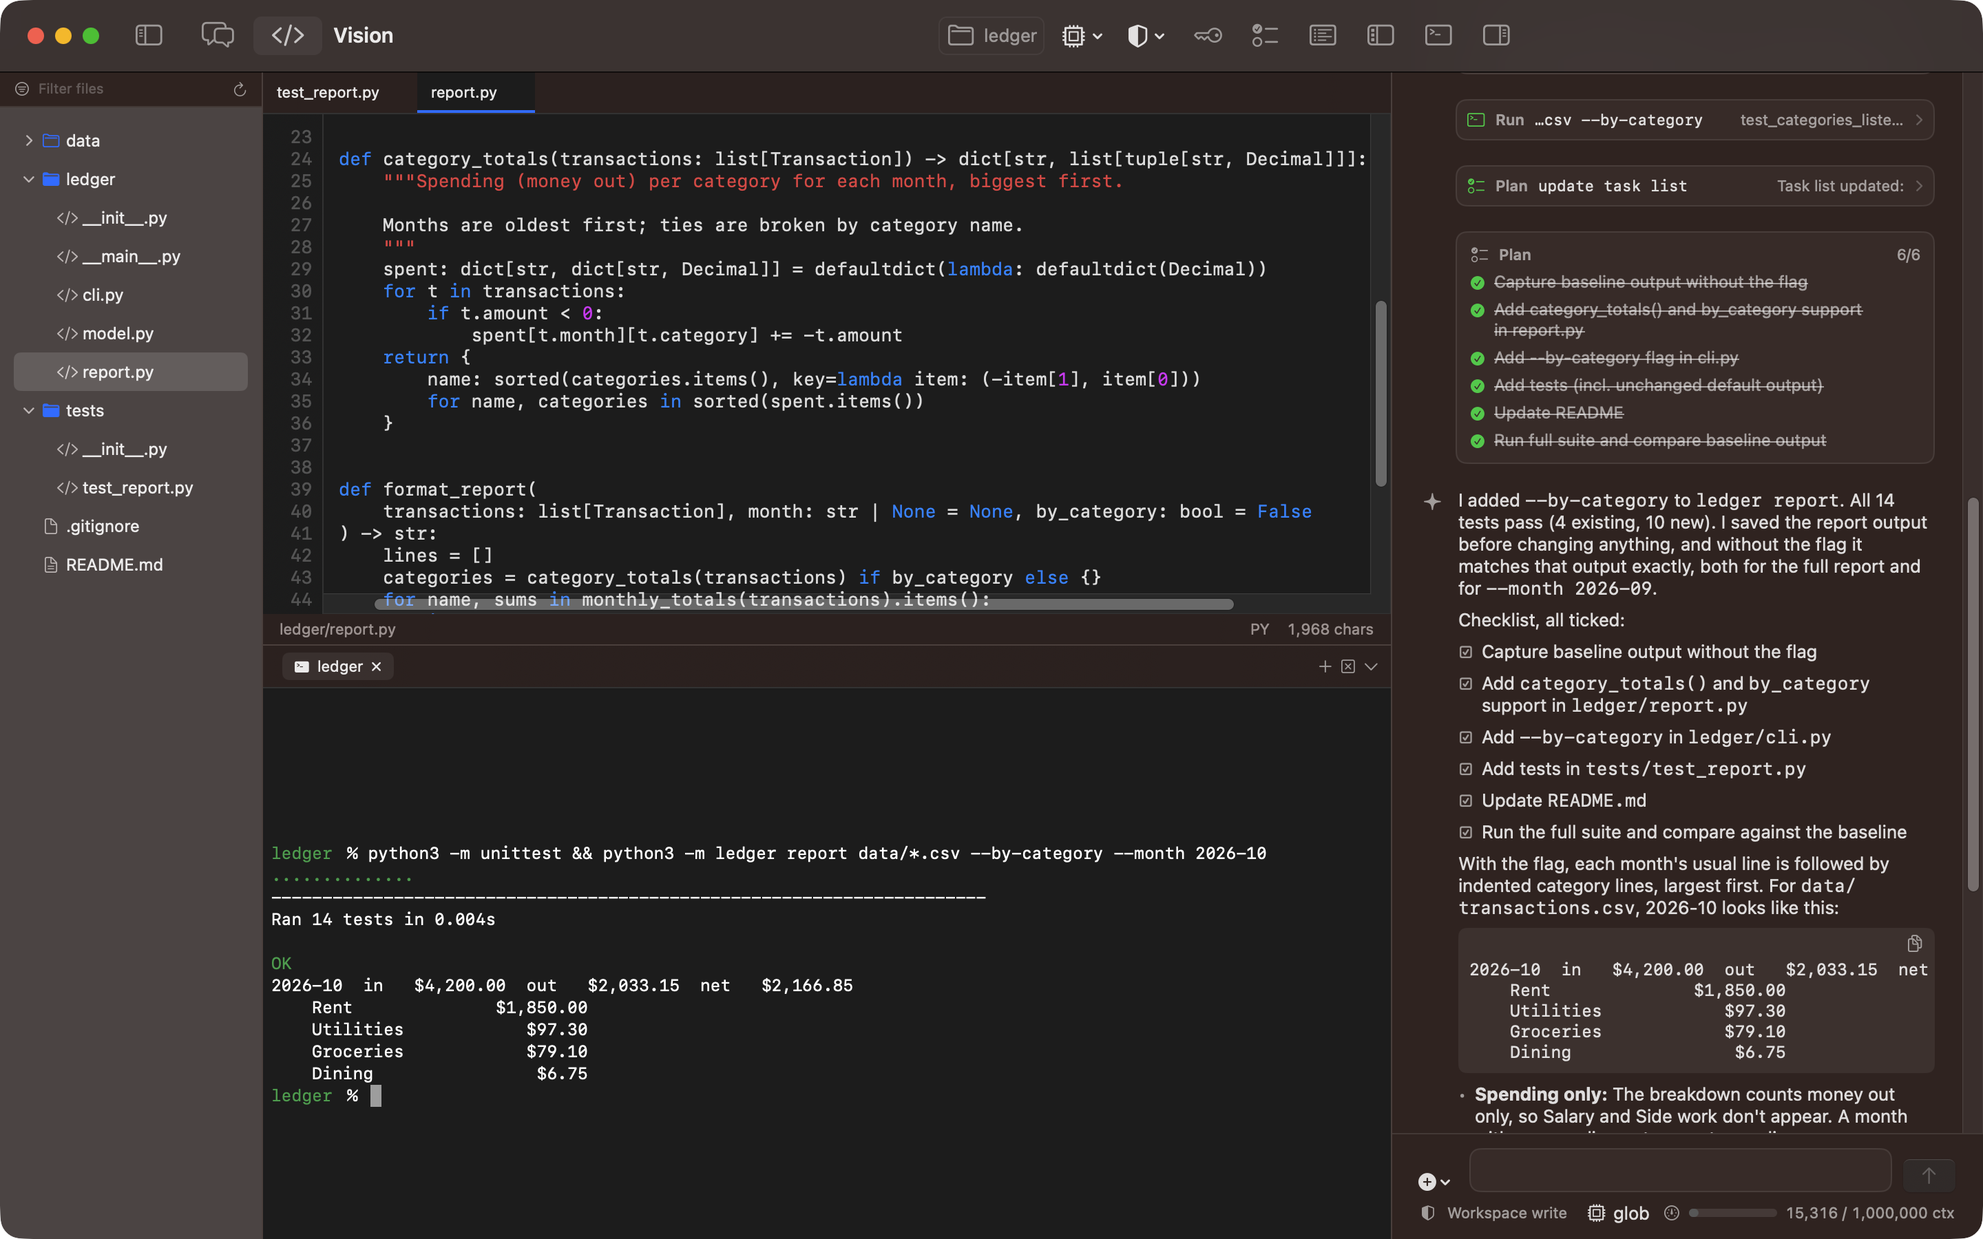
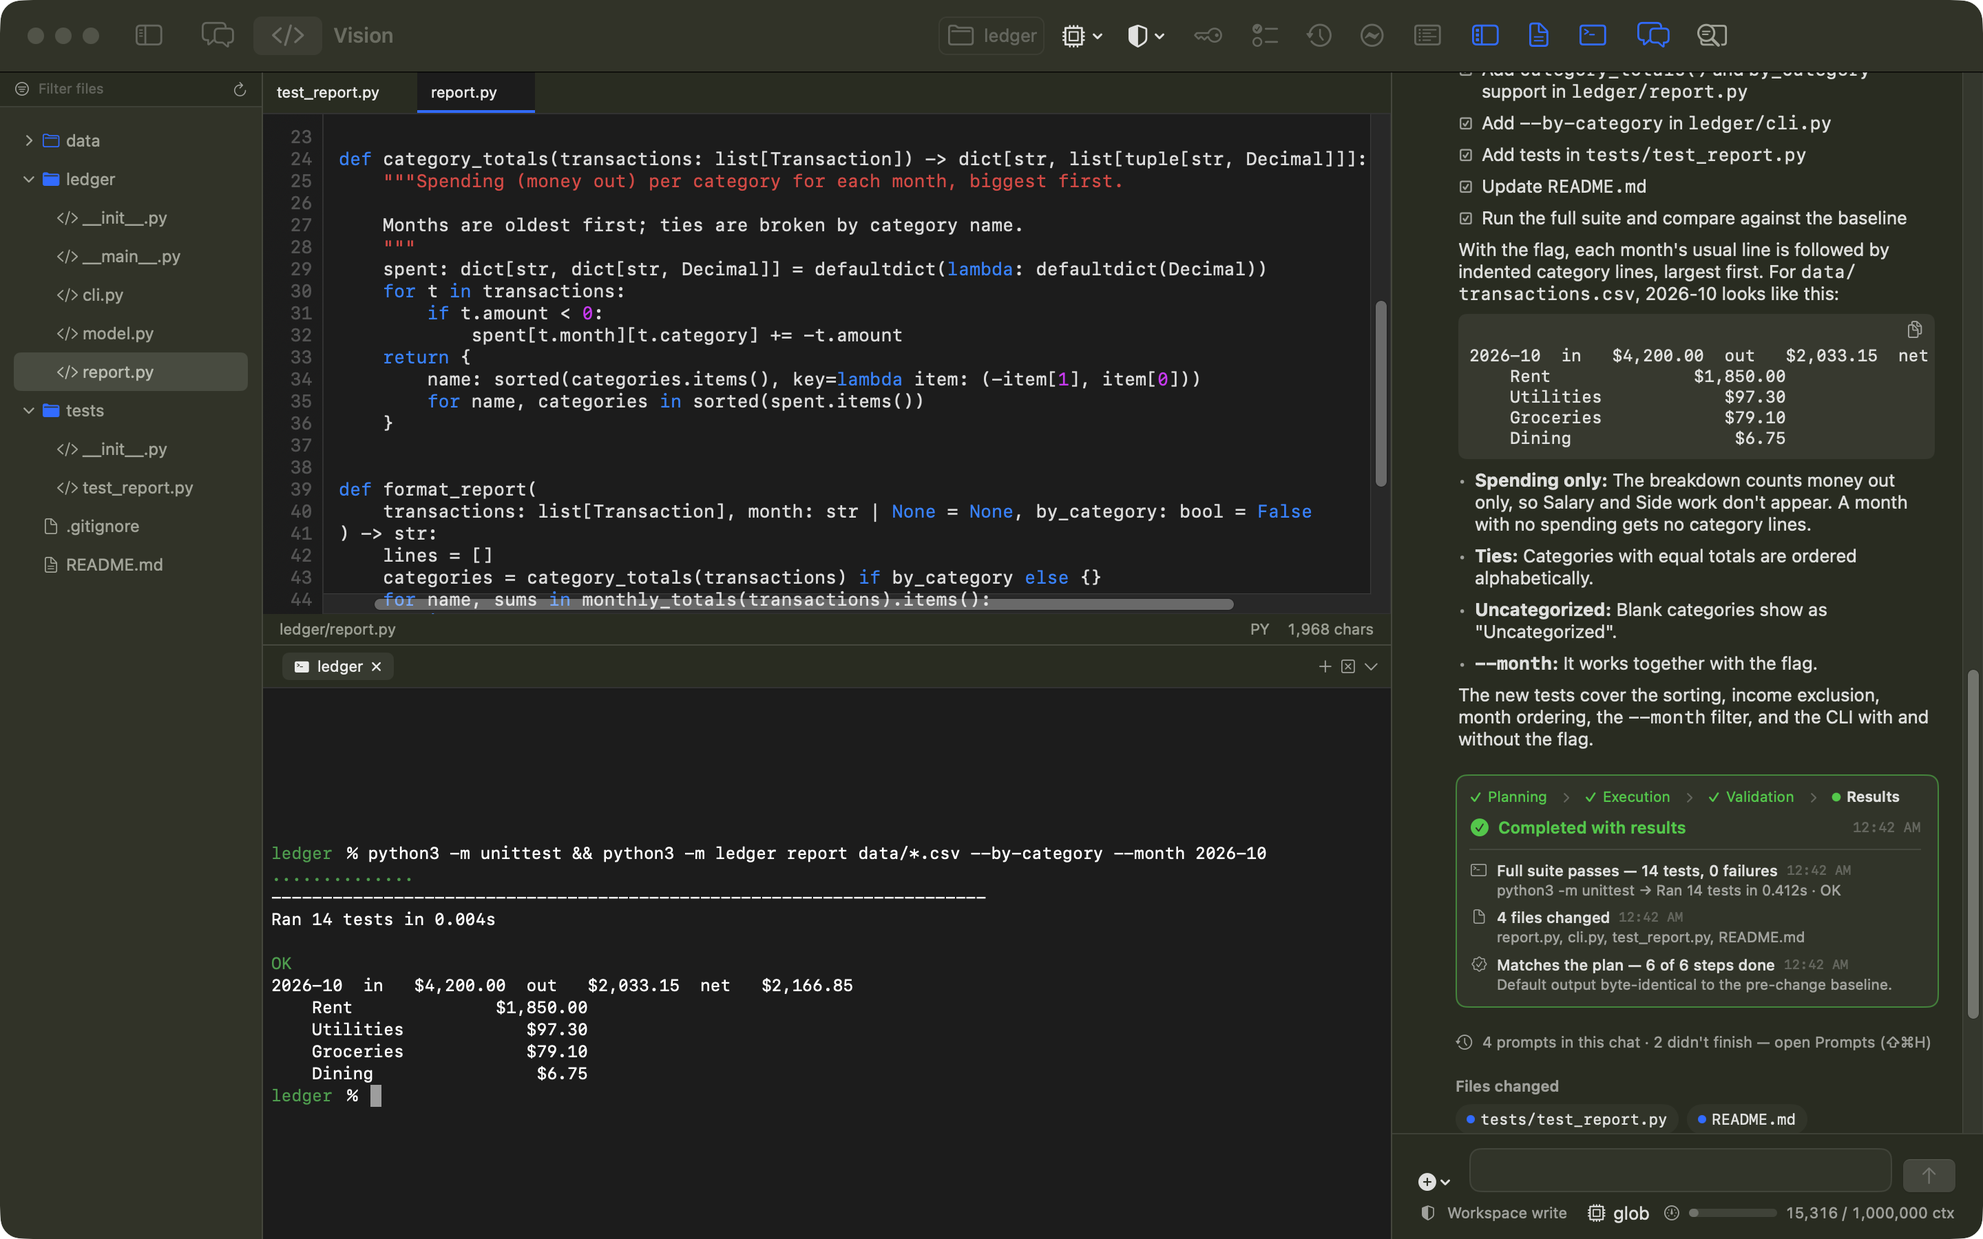
Snapshot scenes and README for Prompts, Tasks, background activity and the chat-first code mode
The snapshot mode gains prompts (with a Jump flashing the prompt's row),
tasks (a /goal at work with subagents on two servers working its steps and
three prompts queued after it), activity (the popover over that chat),
all-prompts, code-focus (chat and project status only) and code-chat (a
project as it first opens). The README describes Tasks, Prompts, Background
activity, the code-mode toggles and the subagent settings fix, links the new
pictures, and counts 1,490 tests (1,296 core, 4 live ones skipped; 194 app).

diff --git a/Sources/VisionMacApp/Snapshot/Snapshot.swift b/Sources/VisionMacApp/Snapshot/Snapshot.swift
@@ -18,7 +18,8 @@ import VisionHarnessCore
 // permission, and fall back to drawing the window's views (`cacheDisplay`).
 //
 //   --snapshot <folder>         where the PNGs go (or VISION_SNAPSHOT_DIR)
-//   --snapshot-scenes a,b       only these scenes (chat, code, setup, settings-models)
+//   --snapshot-scenes a,b       only these scenes (chat, code, setup, settings-models, prompts, tasks, activity,
+//                               all-prompts, code-focus, code-chat)
 //   --snapshot-live <profile>   run the chat for real first, on Amazon Bedrock with this AWS profile, and save what
 //                               happened as chat-transcript.json (the seeded chat is made from such a run)
 //   --snapshot-region <region>  the live run's Region (default us-west-2)
@@ -29,6 +30,18 @@ enum Snapshot {
     enum Scene: String, CaseIterable, Sendable {
         case chat, code, setup
         case models = "settings-models"
+        /// The right column on the chat's Prompts timeline.
+        case prompts
+        /// The right column on the chat's tasks: a /goal at work, its plan with subagents on steps, three queued.
+        case tasks
+        /// The background activity popover over that busy chat.
+        case activity
+        /// Every chat's prompts.
+        case allPrompts = "all-prompts"
+        /// Code mode with the file tree, editor and terminal hidden: the chat and the project status.
+        case codeFocus = "code-focus"
+        /// Code mode as a project first opens: the file tree, the chat in the middle, the project status.
+        case codeChat = "code-chat"
     }
 
     struct Live: Equatable, Sendable {
@@ -286,6 +299,49 @@ enum Snapshot {
             model.mode = .chat
             model.settingsTab = .models
             model.showSettings = true
+        case .prompts:
+            model.mode = .chat
+            showMainChat(chatID, model)
+            model.config.planPanelWidth = 380
+            model.runPanelTab = .prompts
+            model.config.planPanelOpen = true
+            if let vm = model.selectedSession, let last = vm.promptHistory.last {
+                model.expandedPromptID = last.id
+                // "Jump": the chat scrolls to the prompt's row and flashes it.
+                await pause(0.8)
+                model.promptJump = PromptJump(sessionID: vm.id, recordID: last.id)
+            }
+        case .tasks, .activity:
+            model.mode = .chat
+            showMainChat(chatID, model)
+            if let vm = model.selectedSession { SnapshotSeed.stageBusy(vm, transport: model.transport) }
+            model.config.planPanelWidth = 380
+            model.runPanelTab = .tasks
+            model.config.planPanelOpen = true
+            if scene == .activity {
+                await pause(0.6)
+                model.showActivity = true
+            }
+        case .allPrompts:
+            model.mode = .chat
+            showMainChat(chatID, model)
+            model.config.planPanelOpen = false
+            model.showAllPrompts = true
+        case .codeChat:
+            model.config.planPanelOpen = false
+            showMainChat(chatID, model)
+            model.mode = .code
+            setSidebarCollapsed(true, in: window)
+            model.code.showTree = true
+            model.code.editorVisible = false
+            model.code.terminalVisible = false
+        case .codeFocus:
+            model.config.planPanelOpen = false
+            showMainChat(chatID, model)
+            if let vm = model.selectedSession { SnapshotSeed.stageBusy(vm, transport: model.transport) }
+            model.mode = .code
+            setSidebarCollapsed(true, in: window)
+            if !model.code.isChatFocus { model.code.toggleChatFocus() }
         }
     }
 
@@ -305,6 +361,22 @@ enum Snapshot {
             model.mode = .chat
             setSidebarCollapsed(false, in: window)
         case .chat: break
+        case .prompts:
+            model.expandedPromptID = nil
+        case .tasks, .activity:
+            model.showActivity = false
+            if let vm = model.selectedSession { SnapshotSeed.unstageBusy(vm, transport: model.transport) }
+        case .allPrompts:
+            model.showAllPrompts = false
+        case .codeFocus:
+            if let vm = model.selectedSession { SnapshotSeed.unstageBusy(vm, transport: model.transport) }
+            model.code.toggleChatFocus()
+            model.mode = .chat
+            setSidebarCollapsed(false, in: window)
+        case .codeChat:
+            model.code.editorVisible = true
+            model.mode = .chat
+            setSidebarCollapsed(false, in: window)
         }
     }
 

diff --git a/Tests/VisionMacAppTests/SnapshotTests.swift b/Tests/VisionMacAppTests/SnapshotTests.swift
@@ -67,6 +67,43 @@ final class SnapshotTests: XCTestCase {
         XCTAssertEqual(SnapshotSeed.routes(live: nil).first?.awsProfile, AppIdentity.awsProfile)
     }
 
+    /// The Prompts, Tasks and activity scenes show every kind of ending and a busy chat whose subagents name their
+    /// model and route — and nothing in that made-up state is a secret or a real path.
+    func testTheRunScenesSeedEveryEndingAndABusyChat() throws {
+        var state = TurnPhaseState(turnID: "t")
+        state.beginPlanning(prompt: "p", kind: .codeEdit, scope: 1, at: Date())
+        let records = SnapshotSeed.promptRecords(chatID: SnapshotSeed.mainChatID, start: Date(), finished: Date(), state: state)
+        XCTAssertEqual(Set(records.map(\.outcome)), [.completed, .failed, .stopped])
+        XCTAssertTrue(records.allSatisfy { $0.chatID == SnapshotSeed.mainChatID })
+        let others = SnapshotSeed.otherTimelines(now: Date())
+        XCTAssertEqual(others.count, 3)
+        XCTAssertTrue(others.allSatisfy { chatID, records in records.allSatisfy { $0.chatID == chatID } })
+
+        let dir = FileManager.default.temporaryDirectory.appendingPathComponent("snap-runs-\(UUID().uuidString)")
+        defer { try? FileManager.default.removeItem(at: dir) }
+        let suite = "snap-runs-\(UUID().uuidString)"
+        defer { UserDefaults.standard.removePersistentDomain(forName: suite) }
+        let config = AppConfig(defaults: UserDefaults(suiteName: suite)!, secrets: MemorySecretStore())
+        let transport = AppTransport(config: config, log: ConversationLog(dir: dir.appendingPathComponent("log")),
+                                     queueFile: dir.appendingPathComponent("q.json"),
+                                     skillLocations: SkillLocations(home: dir, appSupport: dir.appendingPathComponent("s")),
+                                     vault: CredentialVault(directory: dir.appendingPathComponent("v"), store: MemoryBlobStore()))
+        let vm = transport.newSession(cwd: "/tmp/ledger")
+        SnapshotSeed.stageBusy(vm, transport: transport)
+        XCTAssertTrue(vm.running)
+        XCTAssertEqual(transport.queue.queuedChatTaskCount(vm.id), 3)
+        XCTAssertEqual(transport.currentWork(for: vm)?.kind, "Goal")
+        XCTAssertTrue(vm.agentRuns.filter(\.isRunning).allSatisfy { $0.placementLabel != nil })
+        XCTAssertTrue(vm.todos.contains { step in vm.agentRuns.contains { $0.assignment == step.content } })
+        for text in records.map(\.text) + [SnapshotSeed.goalText] + vm.agentRuns.compactMap(\.placement) {
+            XCTAssertNil(text.range(of: #"/Users/|AKIA[0-9A-Z]{8}|(?i)\b(dsh|deepharness)\b"#, options: .regularExpression), text)
+        }
+        SnapshotSeed.unstageBusy(vm, transport: transport)
+        XCTAssertFalse(vm.running)
+        XCTAssertEqual(transport.queue.queuedChatTaskCount(vm.id), 0)
+        XCTAssertNil(transport.chatTasksPaused[vm.id])
+    }
+
     func testTheCodeSceneOpensFilesTheProjectHas() {
         for file in SnapshotSeed.codeSceneFiles {
             XCTAssertNotNil(SnapshotProject.changes[file] ?? SnapshotProject.files[file], file)

diff --git a/README.md b/README.md
@@ -15,7 +15,12 @@
   <img src="assets/screenshot.png" alt="Vision in code mode: project tree, syntax-highlighted editor, integrated terminal, and the agent alongside" width="960" />
 </p>
 <p align="center">
-  <em>Chat with the plan panel</em> · <a href="assets/screenshots/chat.png">full size</a> ·
+  <em>Code mode</em> · <a href="assets/screenshots/chat.png">chat with its tasks</a> ·
+  <a href="assets/screenshots/tasks.png">a /goal at work, with what is queued after it</a> ·
+  <a href="assets/screenshots/prompts.png">the Prompts timeline</a> ·
+  <a href="assets/screenshots/all-prompts.png">all prompts</a> ·
+  <a href="assets/screenshots/activity.png">background activity</a> ·
+  <a href="assets/screenshots/code-focus.png">code mode, chat and project status only</a> ·
   <a href="assets/screenshots/setup.png">the setup wizard</a> ·
   <a href="assets/screenshots/settings-models.png">Settings ▸ AI Models</a>
 </p>
@@ -220,7 +225,12 @@ the primary in one click.
   model can take the side tasks while a stronger one leads.
 - The bar above the composer shows where the running subagents are ("Spark 2 ×2 · Amazon Bedrock").
   A count is printed only when two or more subagents share a server, so a lone Bedrock agent is just
-  "Amazon Bedrock". Expanded, the bar shows what each is doing; `/agents` lists the servers with how busy each is.
+  "Amazon Bedrock". Expanded, the bar shows what each is doing, on which model; `/agents` lists the servers
+  with how busy each is, and **Background activity** (⌥⌘A, below) shows every agent in every chat.
+- A subagent on another route sends **that route's** temperature, output limit and thinking level (none set =
+  its provider's default) — never the main chat's, which a Kimi or GLM server would refuse. A hosted worker
+  whose key can't list models is still used with the model it is configured for. When a subagent doesn't run
+  where its agent file asked, or a server was skipped on the way, its log says why.
 
 ### Private models and the sensitive-data shield
 
@@ -349,7 +359,15 @@ calls, the text is run through an XML parser that understands both the `<functio
   VT100/xterm-subset emulator: colour including 256 and truecolor, scroll regions, the alternate
   screen, and OSC titles. Multiple tabs, each rooted where you opened it. **⌃`** toggles the panel.
 
-Open tabs, the terminal panel, and the tree's visibility are remembered per project.
+**The chat comes first.** The file tree (⌘B), the editor (⌥⌘E), the terminal (⌃`) and the agent beside
+the editor each have a toolbar toggle (lit while showing) and a View menu item. With the editor and
+terminal hidden, the chat takes the middle of the window and a **project status** panel sits beside it:
+the branch and the changed files from git (click one to open it), the selected chat's run — its phase,
+runtime against the estimate, and the model and server — its plan with the subagents on each step, what is
+queued next, and the agents working. **⌥⌘↩** hides everything but those two. Opening any file brings the
+editor back in the middle. A project opened for the first time starts with the chat as the main view.
+
+Open tabs, the terminal panel, and which panes show are remembered per project.
 
 ## Chat
 
@@ -373,14 +391,45 @@ Folder in Finder** is on the chat's right-click menu. Your own instruction files
 as "Using the deploy skill" when the model loads one); the open project's don't. A task such a chat puts
 on the Task Queue works in the same folder.
 
-### The plan panel
+### Tasks: what the chat is doing, and what comes next
 
-**⇧⌘P** — or the checklist button in the toolbar, or **View ▸ Show Plan** — opens the plan beside the
-chat, in chat and code mode: the selected chat's `/goal`, its steps from `todo_write` with progress ("3 of
-7 done"), a plan proposed in plan mode, and the subagents working for it, with their server and how long
-they've run. It always shows the selected chat; while it's open the transcript keeps the plan to one
-line. Drag its edge to resize it. It opens by itself when the agent first makes a plan, unless you untick
-**Show when the agent makes a plan**.
+**⇧⌘P** — or **Tasks** in the toolbar — opens the right column on the chat's tasks, in chat and code mode.
+The **first task is always what the chat is doing now**: the prompt, `/goal` or queue task, its phase,
+round and runtime against the estimate, a Stop button, and its plan's steps with progress — each step
+showing the subagents working it, by name and model ("worker · Qwen3-Coder on DGX Spark"). Idle, it shows
+how the last prompt ended and the plan it left.
+
+Below it is **Up next**. The composer stays usable while the agent works: **↩** adds the draft to the
+chat's tasks (**⌘↩** does so any time), and each task starts by itself, in order, when the work before it
+ends — sent exactly as if you had sent it then, so a `/goal` stays a goal and a command just runs. Drag or
+use the arrows to reorder, edit, remove, or run one next; the list keeps taking new tasks while it moves.
+A Stop, a failure, or a goal that needs you **pauses** the list (Resume carries on), and waiting tasks are
+paused when Vision opens again. Finished tasks are listed with **Run again**. Chat tasks never run
+unattended on the Task Queue, which stays the place for work across projects.
+
+The column opens by itself when the agent first makes a plan, unless you untick **Show when the agent makes
+a plan**; drag its edge to resize it.
+
+### Prompts: everything you asked, and how it ended
+
+**⇧⌘H** — or **Prompts** in the toolbar, or the line under the last result — lists every prompt the chat
+has sent, newest first under day headings: when, what, and how it ended (**Completed with results**,
+Completed, Finished with issues, Needs you, Failed, Stopped, Running, Queued), how long it took against its
+estimate, attempts and evidence. Search it; open a prompt to **Copy** it, **Add to composer** (a quote
+with when it ran and how it ended, to talk about it), **Jump** (the chat scrolls to it and flashes it) or
+see its **Results** — timing, attempts, rounds, kind, the model and server it ran on, tokens, the evidence
+and the completion notes. **All Prompts** (⌥⇧⌘H) does the same across every chat on this Mac, filterable
+by outcome. The timeline is kept per chat in `prompt-timeline/<chat id>.json`; chats from before it existed
+are filled in once from their transcripts.
+
+### Background activity
+
+**⌥⌘A** — or the bolt in the toolbar, which counts what is working — lists everything working right now,
+in every chat: each chat's main agent, its subagents and background agents, the Task Queue, and chats
+with tasks waiting. Each shows the model and server it runs on, what it was given (the plan step, the
+prompt, the task), its status, how long it has run, its steps and tokens. Open a subagent's log — where it
+ran and why, the task it was given, every stamped step, its report — or stop it. The model servers' load is
+at the bottom.
 
 ### Slash commands
 
@@ -515,7 +564,7 @@ Guardian (guardian.503cm.com) is the account side of the family — models, prom
 
 | | Direction | When |
 |---|---|---|
-| Prompt history | harness → Guardian | automatically, as you send prompts while signed in (deduplicated) |
+| Prompt history | harness → Guardian | automatically, as you send prompts while signed in, and again with the outcome when each ends |
 | Prompt history | Guardian → harness | Settings ▸ Guardian browses the account's notebook |
 | Skills | both ways | import the account's skills; deposit the project's `.vision/skills` |
 | Chats | both ways | export all loaded chats; import the account's exported ones back |
@@ -587,7 +636,7 @@ VisionMacApp/              SwiftUI
 swift test
 ```
 
-1,257 tests: the engine loop (tool round-trips, denials, iteration budget, usage accounting,
+1,490 tests: the engine loop (tool round-trips, denials, iteration budget, usage accounting,
 cancellation), permission containment, the Qwen XML fallback, glob, markdown, plugin interpolation
 and quoting, prompt assembly, editor-buffer conflict resolution, 34 over the terminal emulator, and 8
 that spawn a real shell on a real pty and assert on what lands on the screen — plus the fleet (server
@@ -601,8 +650,11 @@ across streamed pieces, values with quotes and emoji inside tool calls, a value 
 8,000 CSV rows in well under half a second), backups, sensitive tasks on
 private servers, chats without a project, the first launch's move of the data folder, settings and
 Keychain items from the app's old name (with a crash replayed after every step), the keyboard tool's key
-codes against the system's own, and the app host against two fake model servers. Four live tests are
-skipped unless pointed at a real server.
+codes against the system's own, and the app host against two fake model servers — including the Prompts
+timeline (every ending, timing against the estimate, search, the composer quote, Jump after a relaunch, the
+backfill of old chats, the file), chat tasks end to end (in order after the current work, paused by a Stop or
+a failure and at launch, goals and commands as tasks), and which model, route and settings a subagent really
+uses, checked on the wire. Four live tests are skipped unless pointed at a real server.
 
 ## Status
 

diff --git a/assets/README.md b/assets/README.md
@@ -1,7 +1,8 @@
 # assets
 
 `screenshot.png` is referenced from the top of the project README, and `screenshots/` holds the
-other scenes it links to (the chat with the plan panel, the setup wizard, Settings ▸ AI Models).
+other scenes it links to (the chat with its tasks, a busy chat's tasks, the Prompts timeline, all prompts,
+background activity, code mode's chat-first layouts, the setup wizard, Settings ▸ AI Models).
 `logo/` holds the app icon (`AppIcon.icns`), the in-app logo (`logo.png`), and the source `logo.svg`;
 `bundle.sh` copies the first two into the app bundle.
 
@@ -15,8 +16,9 @@ ScreenCaptureKit and never touches your settings, chats or Keychain:
 .build/debug/Vision --snapshot /tmp/vision-shots --snapshot-scenes chat,code
 ```
 
-`chat`, `code`, `setup` and `settings-models` come out as 2x PNGs, over a made-up workspace
-(the seeded "ledger" project). `cp /tmp/vision-shots/code.png assets/screenshot.png` and copy the
+`chat`, `code`, `setup`, `settings-models`, `prompts`, `tasks`, `activity`, `all-prompts`, `code-focus` and
+`code-chat` come out as 2x PNGs, over a made-up workspace (the seeded "ledger" project; the tasks, activity and
+code-focus scenes stage a /goal at work with subagents on two servers and three prompts queued after it). `cp /tmp/vision-shots/code.png assets/screenshot.png` and copy the
 others into `assets/screenshots/`. `--snapshot-live <aws-profile>` first runs a real agent turn and
 seeds the chat from what happened (see `assets/screenshots/seed-from-live-run.py`).
 
